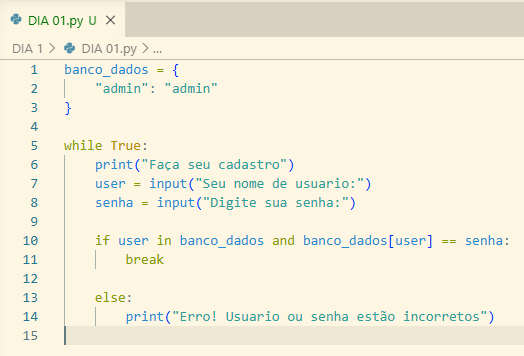
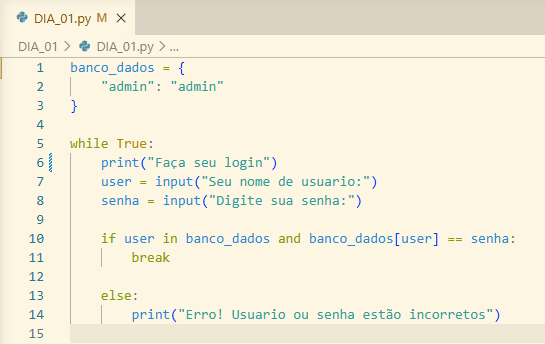
DIA_02
Usando Json para Permanência de dados!

diff --git a/DIA_02/DIA_02.py b/DIA_02/DIA_02.py
@@ -1,0 +1,79 @@
+import json
+
+try:
+    with open("banco_dados.json", "r", encoding="utf-8") as arquivo:
+        dados = json.load(arquivo)
+except (FileNotFoundError, json.JSONDecodeError):
+
+    dados = {}
+    with open("banco_dados.json", "w", encoding="utf-8") as arquivo:
+        json.dump(dados, arquivo)
+
+#Funções
+
+#Funções de menu
+def criar():
+    print(f"{50*"="}")
+    print("Faça seu cadastro!\n")
+    while True:
+
+        nome = input("Digite seu nome de usuario:").lstrip()
+        senha = input("Digite sua senha:").lstrip()
+
+        if nome in dados:
+            print("\nErro: Este usuário já existe!")
+            continue 
+
+        print(f"\n{nome} \nDeseja salvar seu cadastro?\n")
+        resposta = input("S/N :").strip() .upper() 
+        if resposta == "S":
+
+            dados[nome] = senha
+
+            with open("banco_dados.json", "w", encoding="utf-8") as arquivo:
+                json.dump(dados, arquivo, indent=4, ensure_ascii=False)
+
+            if nome in dados:
+                print("\nCadastro concluido com sucesso!")    
+                return True
+
+        else:
+            print("\nFaça seu cadastro novamente...")
+
+def logar():
+    print(f"{50*"="}")        
+    print("Faça o seu Login:")
+
+    while True:
+        nome = input("Digite seu nome de usuario:").lstrip()
+        senha = input("Digite sua senha:").lstrip()
+
+        if nome in dados and dados[nome] == senha:
+            return True
+
+        else:
+            print("\nUsuario ou senha errados, tente novamente")   
+
+#Menu
+while True: 
+
+    print(f"{60*"="}")
+
+    print("Qual das opções a baixo voce gostaria de executar?\n" \
+    "[1] Criar login\n[2] Logar ")
+
+    opcoes = input("\ninsira aqui:")
+
+    if opcoes == "1":
+        criar()
+        break
+
+    elif opcoes == "2":
+        logar()
+        break
+
+    else:
+        print("Erro, Opção não existente, tente:\n[1] Criar login\n[2] Logar")
+    
+
+print("\nOlá!")

diff --git a/DIA_01/DIA_01.py b/DIA_01/DIA_01.py
@@ -3,7 +3,7 @@ banco_dados = {
 }
 
 while True:
-    print("Faça seu cadastro")
+    print("Faça seu login")
     user = input("Seu nome de usuario:")
     senha = input("Digite sua senha:")
 

diff --git a/DIA_02/README.md b/DIA_02/README.md
@@ -1,0 +1,36 @@
+Segundo dia de trabalho! E hoje vamos começar com uma mudança importante para o código, vamos resolver o problema de Hardcoded Credentials, anteriormente os dados estavam diretamente no código, e isso é um problema tanto de organização tanto quanto de segurança.
+
+Ao invés de deixarmos em um dicionário na mesma estrutura do código, iremos criar um arquivo  perfeito para ser manipulado em Python, seu nome? Json, como o mascarado, mas que não dá tanto medo quanto, usar um arquivo json é perfeito para nós justamente porque poderemos manipula-lo, assim, criando futuramente funções de adicionar novos usuários ao sistema.
+
+Observe o código original:  
+
+![alt text](/DIA_01/DIA_01.png)
+
+Agora veja a alteração:
+
+![alt text](DIA_02.png)
+
+Eu sei, eu sei, são muitas linhas novas para o código, parece complicado, mas não é nada demais o que fizemos aqui, ignore o try por enquanto, primeiro, importamos o Json, e mandamos ele ler o arquivo "banco_dados.json", usamos enconding "utf-8" que é o nosso padrão de caracteres, afinal, precisamos saber onde está os dados que desejamos obter. 
+
+Agora, por que usamos o try e except? como você pode ver na imagem, a função que ele esta executando no momento é "tente abrir esse arquivo, se o erro "File not found error" aparecer, crie um arquivo com o mesmo nome, isso garante que não precisamos criar manualmente um arquivo Json, e previne que o programa crashe no futuro caso o banco seja apagado, mas... pense comigo, estamos dizendo para ele criar um novo arquivo Json que não possui nenhuma informação dos dados no banco, mesmo que garantimos que o programa não crashe isso não adianta de nada, já que mesmo que o crie, não existe informações relevantes nele, mas não significa que usamos try atoa, iremos resolver isso depois, por enquanto deixaremos ele quietinho ali. 
+
+Tudo resolvido? bem, temos o arquivo, mas não temos um usuário e muito menos uma senha, pra começarmos vamos criar um "Menu" interativo e intuitivo para o usuário, com isso poderemos adicionar senhas e obter escolhas do que queremos fazer no momento.
+
+![alt text](image.png)
+
+O menu ficará assim:
+
+![alt text](image-1.png)
+
+Agora, criaremos o mecanismo responsável por fazer essas escolhas funcionarem, deixaremos tudo organizado, então usarei funções e comentários para separar e organizar tudo o mais legível o possível.
+
+![alt text](image-2.png)
+
+As duas funções são muito simples e usam tudo o que já usamos, adicionamos pequenos detalhes de fluidez que ajudam o código a funcionar sem erros, como Lstrip e Indent, "with open" para salvar no arquivo Json, bem, voce deve ter reparado neste codigo:
+
+![alt text](image-3.png)
+
+Usaremos isso por enquanto para evitar que outro usuario sobescreva o login de outro, mas futuramente mudaremos a logica do codigo, para torna-lo mais seguro.
+
+Com isso, a nossa pequena correção aumenta a segurança, mas ainda deixa partes vulneraveis, mas relaxe, vamos resolver tudo isso em breve!
+ 

diff --git a/DIA_01/README.md b/DIA_01/README.md
@@ -18,7 +18,7 @@ em Pyturgues é algo assim:
 
 Enquanto verdade:
 
-Diga ("Faça seu cadastro")
+Diga ("Faça seu login")
 
 usuário recebe a entrada ("Seu nome de usuário: )
 senha recebe a entrada ("Sua senha:  )
@@ -38,9 +38,9 @@ Mas qual é o nível de segurança disso?
 
 A resposta é bem simples, nenhum, existem erros de segurança básicas aqui, como senhas expostas sem hash **(Plain Text)**, a própria senha esta embutida no código fonte **(Hardcoded Credentials)**, não existem mecanismos que impedem o brute force, o que significa que é muito simples e fácil descobrir a senha do usuário e entrar rapidamente no sistema, este código apenas se preocupa em rodar ao invés da segurança de quem o usa.
 
-- **Confidencialidade:** ❌ (Péssima - senhas em texto puro)
+- **Confidencialidade:**  Péssima - senhas em texto puro
     
-- **Integridade:** ⚠ (Média/Baixa - qualquer um com acesso ao código altera os dados)
+- **Integridade:** Baixa - qualquer um com acesso ao código altera os dados
     
-- **Disponibilidade:** ✅ (Alta - o código é simples e fácil de rodar)
+- **Disponibilidade:** Alta - o código é simples e fácil de rodar
 
